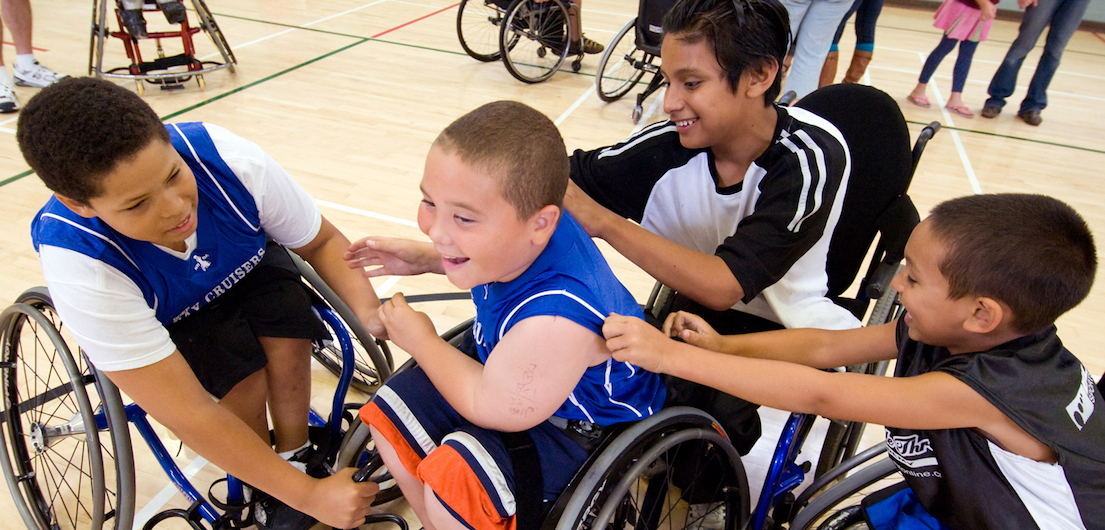
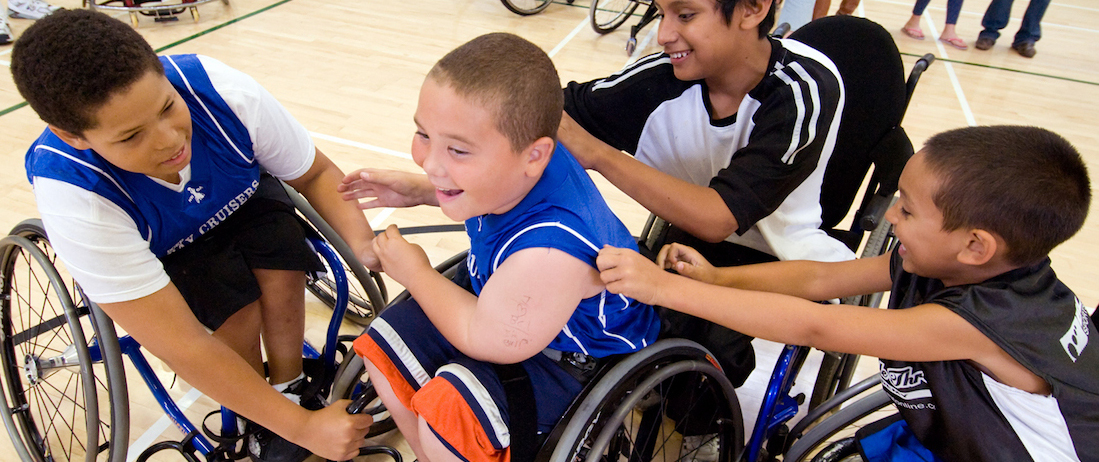
changed photo sizes for carosel

diff --git a/index.html b/index.html
@@ -54,25 +54,25 @@
           <li>
             <img src="./images/borp_4.jpg" alt="slide 2" />
             <div class="orbit-caption row">
-              <h3>BORP: Supporting sports for the physically disabled.</h3>
+              <h3>BORP: Launching a new boys wheelchair basketball league.</h3>
             </div>
           </li>
           <li>
             <img src="./images/st.vincents_2.jpg" />
             <div class="orbit-caption">
-              <h3>BORP: Supporting sports for the physically disabled.</h3>
+              <h3>St. Vincent's: Devoloping an innovative new charter school model in West Oakland.</h3>
             </div>
           </li>
           <li>
             <img src="./images/3-d_artist.jpg" alt="slide 1" />
             <div class="orbit-caption">
-              <h3>BORP: Supporting sports for the physically disabled.</h3>
+              <h3>3-Dimensional Art: 3D art program for Oakland's public schools.</h3>
             </div>
           </li>
           <li>
             <img src="./images/girls_inc_2.jpg" alt="slide 1" />
             <div class="orbit-caption">
-             <h3>BORP: Supporting sports for the physically disabled.</h3>
+             <h3>Girls Inc.: Girls afterschool literacy and enrichment program.</h3>
             </div>
           </li>
         </ul>
